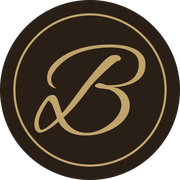
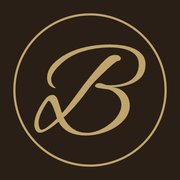
Add files via upload

diff --git a/about.html b/about.html
@@ -9,10 +9,10 @@
 <link rel="preconnect" href="https://fonts.gstatic.com" crossorigin>
 <link href="https://fonts.googleapis.com/css2?family=Cormorant+Garamond:ital,wght@0,400;0,500;0,600;0,700;1,400;1,500;1,600&family=Montserrat:wght@300;400;500;600&display=swap" rel="stylesheet">
 <link rel="stylesheet" href="site.css">
-<link rel="icon" href="favicon.ico" sizes="any">
-<link rel="icon" type="image/png" sizes="32x32" href="favicon-32.png">
-<link rel="icon" type="image/png" sizes="16x16" href="favicon-16.png">
-<link rel="apple-touch-icon" href="apple-touch-icon.png">
+<link rel="icon" href="favicon.ico?v=2" sizes="any">
+<link rel="icon" type="image/png" sizes="32x32" href="favicon-32.png?v=2">
+<link rel="icon" type="image/png" sizes="16x16" href="favicon-16.png?v=2">
+<link rel="apple-touch-icon" href="apple-touch-icon.png?v=2">
 <meta name="theme-color" content="#281F18">
 <link rel="canonical" href="https://www.blackwaterportraits.com/about.html">
 <meta property="og:type" content="website">
@@ -92,8 +92,10 @@
 <section class="alt reveal">
   <div class="wrap creds-band">
     <span class="eyebrow">Recognition &amp; Membership</span>
-    <p class="cred-copy">Proud members of the Professional Photographers of America, the Professional Photographers of Ohio, and the St. Clairsville Area Chamber of Commerce.</p>
-    <p class="cred-star">Donnie Stevens, 2026 PPA 30 Under 30 Honoree.</p>
+    <p class="cred-honor">2026 PPA 30 Under 30 <em>Honoree</em></p>
+    <p class="cred-honor-sub">Donnie Stevens &middot; Named by the Professional Photographers of America</p>
+    <div class="cred-rule"></div>
+    <p class="cred-mem">Proud members of the Professional Photographers of America, the Professional Photographers of Ohio, and the St. Clairsville Area Chamber of Commerce.</p>
     <div class="cred-logos">
       <img src="logo-ppa.png" alt="Professional Photographers of America member" loading="lazy">
       <img src="logo-ppo.png" alt="Professional Photographers of Ohio member" loading="lazy">

diff --git a/index.html b/index.html
@@ -9,10 +9,10 @@
 <link rel="preconnect" href="https://fonts.gstatic.com" crossorigin>
 <link href="https://fonts.googleapis.com/css2?family=Cormorant+Garamond:ital,wght@0,400;0,500;0,600;0,700;1,400;1,500;1,600&family=Montserrat:wght@300;400;500;600&display=swap" rel="stylesheet">
 <link rel="stylesheet" href="site.css">
-<link rel="icon" href="favicon.ico" sizes="any">
-<link rel="icon" type="image/png" sizes="32x32" href="favicon-32.png">
-<link rel="icon" type="image/png" sizes="16x16" href="favicon-16.png">
-<link rel="apple-touch-icon" href="apple-touch-icon.png">
+<link rel="icon" href="favicon.ico?v=2" sizes="any">
+<link rel="icon" type="image/png" sizes="32x32" href="favicon-32.png?v=2">
+<link rel="icon" type="image/png" sizes="16x16" href="favicon-16.png?v=2">
+<link rel="apple-touch-icon" href="apple-touch-icon.png?v=2">
 <meta name="theme-color" content="#281F18">
 <link rel="canonical" href="https://www.blackwaterportraits.com/">
 <meta property="og:type" content="website">
@@ -234,8 +234,10 @@
 <section class="alt reveal">
   <div class="wrap creds-band">
     <span class="eyebrow">Recognition &amp; Membership</span>
-    <p class="cred-copy">Proud members of the Professional Photographers of America, the Professional Photographers of Ohio, and the St. Clairsville Area Chamber of Commerce.</p>
-    <p class="cred-star">Donnie Stevens, 2026 PPA 30 Under 30 Honoree.</p>
+    <p class="cred-honor">2026 PPA 30 Under 30 <em>Honoree</em></p>
+    <p class="cred-honor-sub">Donnie Stevens &middot; Named by the Professional Photographers of America</p>
+    <div class="cred-rule"></div>
+    <p class="cred-mem">Proud members of the Professional Photographers of America, the Professional Photographers of Ohio, and the St. Clairsville Area Chamber of Commerce.</p>
     <div class="cred-logos">
       <img src="logo-ppa.png" alt="Professional Photographers of America member" loading="lazy">
       <img src="logo-ppo.png" alt="Professional Photographers of Ohio member" loading="lazy">

diff --git a/site.css b/site.css
@@ -307,6 +307,12 @@ footer{background:var(--cream);color:var(--mushroom);padding:104px 0 42px;border
 .cred-star{font-family:var(--sans);font-size:11px;letter-spacing:.24em;text-transform:uppercase;color:var(--gold-deep);font-weight:600;margin:22px auto 0;line-height:1.8;text-align:center}
 .cred-logos{display:flex;justify-content:center;align-items:center;flex-wrap:wrap;gap:40px 54px;margin:40px auto 0;max-width:840px}
 .cred-logos img{max-width:150px;max-height:62px;width:auto;height:auto;object-fit:contain;display:block}
+/* Featured honor — leads the recognition band */
+.cred-honor{font-family:var(--serif);font-weight:500;font-size:clamp(28px,3.8vw,44px);line-height:1.12;letter-spacing:-.01em;color:var(--espresso);max-width:20ch;margin:14px auto 0;text-align:center}
+.cred-honor em{font-style:italic;color:var(--gold-deep)}
+.cred-honor-sub{font-family:var(--sans);font-size:11px;letter-spacing:.22em;text-transform:uppercase;color:var(--mushroom);font-weight:500;margin:16px auto 0;line-height:1.7;text-align:center}
+.cred-rule{width:60px;height:1px;background:var(--gold);margin:30px auto}
+.cred-mem{font-family:var(--serif);font-style:italic;font-size:clamp(16px,1.9vw,20px);line-height:1.55;color:var(--mocha);max-width:46ch;margin:0 auto;text-align:center}
 @media(max-width:600px){.cred-logos{gap:26px 40px}.cred-logos img{max-width:118px;max-height:48px}}
 
 /* reveal */

diff --git a/wonder-of-christmas.html b/wonder-of-christmas.html
@@ -9,10 +9,10 @@
 <link rel="preconnect" href="https://fonts.gstatic.com" crossorigin>
 <link href="https://fonts.googleapis.com/css2?family=Cormorant+Garamond:ital,wght@0,400;0,500;0,600;0,700;1,400;1,500;1,600;1,700&family=Montserrat:wght@300;400;500;600&display=swap" rel="stylesheet">
 <link rel="stylesheet" href="site.css">
-<link rel="icon" href="favicon.ico" sizes="any">
-<link rel="icon" type="image/png" sizes="32x32" href="favicon-32.png">
-<link rel="icon" type="image/png" sizes="16x16" href="favicon-16.png">
-<link rel="apple-touch-icon" href="apple-touch-icon.png">
+<link rel="icon" href="favicon.ico?v=2" sizes="any">
+<link rel="icon" type="image/png" sizes="32x32" href="favicon-32.png?v=2">
+<link rel="icon" type="image/png" sizes="16x16" href="favicon-16.png?v=2">
+<link rel="apple-touch-icon" href="apple-touch-icon.png?v=2">
 <meta name="theme-color" content="#16271C">
 <link rel="canonical" href="https://www.blackwaterportraits.com/wonder-of-christmas.html">
 <meta property="og:type" content="website">

diff --git a/blackwater-grand-opening.html b/blackwater-grand-opening.html
@@ -9,10 +9,10 @@
 <link rel="preconnect" href="https://fonts.gstatic.com" crossorigin>
 <link href="https://fonts.googleapis.com/css2?family=Cormorant+Garamond:ital,wght@0,400;0,500;0,600;0,700;1,400;1,500;1,600&family=Montserrat:wght@300;400;500;600&display=swap" rel="stylesheet">
 <link rel="stylesheet" href="site.css">
-<link rel="icon" href="favicon.ico" sizes="any">
-<link rel="icon" type="image/png" sizes="32x32" href="favicon-32.png">
-<link rel="icon" type="image/png" sizes="16x16" href="favicon-16.png">
-<link rel="apple-touch-icon" href="apple-touch-icon.png">
+<link rel="icon" href="favicon.ico?v=2" sizes="any">
+<link rel="icon" type="image/png" sizes="32x32" href="favicon-32.png?v=2">
+<link rel="icon" type="image/png" sizes="16x16" href="favicon-16.png?v=2">
+<link rel="apple-touch-icon" href="apple-touch-icon.png?v=2">
 <meta name="theme-color" content="#281F18">
 <link rel="canonical" href="https://www.blackwaterportraits.com/blackwater-grand-opening.html">
 <meta property="og:type" content="article">

diff --git a/what-to-wear.html b/what-to-wear.html
@@ -9,10 +9,10 @@
 <link rel="preconnect" href="https://fonts.gstatic.com" crossorigin>
 <link href="https://fonts.googleapis.com/css2?family=Cormorant+Garamond:ital,wght@0,400;0,500;0,600;0,700;1,400;1,500;1,600&family=Montserrat:wght@300;400;500;600&display=swap" rel="stylesheet">
 <link rel="stylesheet" href="site.css">
-<link rel="icon" href="favicon.ico" sizes="any">
-<link rel="icon" type="image/png" sizes="32x32" href="favicon-32.png">
-<link rel="icon" type="image/png" sizes="16x16" href="favicon-16.png">
-<link rel="apple-touch-icon" href="apple-touch-icon.png">
+<link rel="icon" href="favicon.ico?v=2" sizes="any">
+<link rel="icon" type="image/png" sizes="32x32" href="favicon-32.png?v=2">
+<link rel="icon" type="image/png" sizes="16x16" href="favicon-16.png?v=2">
+<link rel="apple-touch-icon" href="apple-touch-icon.png?v=2">
 <meta name="theme-color" content="#281F18">
 <link rel="canonical" href="https://www.blackwaterportraits.com/what-to-wear.html">
 <meta property="og:type" content="website">

diff --git a/experience.html b/experience.html
@@ -9,10 +9,10 @@
 <link rel="preconnect" href="https://fonts.gstatic.com" crossorigin>
 <link href="https://fonts.googleapis.com/css2?family=Cormorant+Garamond:ital,wght@0,400;0,500;0,600;0,700;1,400;1,500;1,600&family=Montserrat:wght@300;400;500;600&display=swap" rel="stylesheet">
 <link rel="stylesheet" href="site.css">
-<link rel="icon" href="favicon.ico" sizes="any">
-<link rel="icon" type="image/png" sizes="32x32" href="favicon-32.png">
-<link rel="icon" type="image/png" sizes="16x16" href="favicon-16.png">
-<link rel="apple-touch-icon" href="apple-touch-icon.png">
+<link rel="icon" href="favicon.ico?v=2" sizes="any">
+<link rel="icon" type="image/png" sizes="32x32" href="favicon-32.png?v=2">
+<link rel="icon" type="image/png" sizes="16x16" href="favicon-16.png?v=2">
+<link rel="apple-touch-icon" href="apple-touch-icon.png?v=2">
 <meta name="theme-color" content="#281F18">
 <link rel="canonical" href="https://www.blackwaterportraits.com/experience.html">
 <meta property="og:type" content="website">

diff --git a/investment.html b/investment.html
@@ -9,10 +9,10 @@
 <link rel="preconnect" href="https://fonts.gstatic.com" crossorigin>
 <link href="https://fonts.googleapis.com/css2?family=Cormorant+Garamond:ital,wght@0,400;0,500;0,600;0,700;1,400;1,500;1,600&family=Montserrat:wght@300;400;500;600&display=swap" rel="stylesheet">
 <link rel="stylesheet" href="site.css">
-<link rel="icon" href="favicon.ico" sizes="any">
-<link rel="icon" type="image/png" sizes="32x32" href="favicon-32.png">
-<link rel="icon" type="image/png" sizes="16x16" href="favicon-16.png">
-<link rel="apple-touch-icon" href="apple-touch-icon.png">
+<link rel="icon" href="favicon.ico?v=2" sizes="any">
+<link rel="icon" type="image/png" sizes="32x32" href="favicon-32.png?v=2">
+<link rel="icon" type="image/png" sizes="16x16" href="favicon-16.png?v=2">
+<link rel="apple-touch-icon" href="apple-touch-icon.png?v=2">
 <meta name="theme-color" content="#281F18">
 <link rel="canonical" href="https://www.blackwaterportraits.com/investment.html">
 <meta property="og:type" content="website">

diff --git a/children.html b/children.html
@@ -9,10 +9,10 @@
 <link rel="preconnect" href="https://fonts.gstatic.com" crossorigin>
 <link href="https://fonts.googleapis.com/css2?family=Cormorant+Garamond:ital,wght@0,400;0,500;0,600;0,700;1,400;1,500;1,600&family=Montserrat:wght@300;400;500;600&display=swap" rel="stylesheet">
 <link rel="stylesheet" href="site.css">
-<link rel="icon" href="favicon.ico" sizes="any">
-<link rel="icon" type="image/png" sizes="32x32" href="favicon-32.png">
-<link rel="icon" type="image/png" sizes="16x16" href="favicon-16.png">
-<link rel="apple-touch-icon" href="apple-touch-icon.png">
+<link rel="icon" href="favicon.ico?v=2" sizes="any">
+<link rel="icon" type="image/png" sizes="32x32" href="favicon-32.png?v=2">
+<link rel="icon" type="image/png" sizes="16x16" href="favicon-16.png?v=2">
+<link rel="apple-touch-icon" href="apple-touch-icon.png?v=2">
 <meta name="theme-color" content="#281F18">
 <link rel="canonical" href="https://www.blackwaterportraits.com/children.html">
 <meta property="og:type" content="website">

diff --git a/animals.html b/animals.html
@@ -9,10 +9,10 @@
 <link rel="preconnect" href="https://fonts.gstatic.com" crossorigin>
 <link href="https://fonts.googleapis.com/css2?family=Cormorant+Garamond:ital,wght@0,400;0,500;0,600;0,700;1,400;1,500;1,600&family=Montserrat:wght@300;400;500;600&display=swap" rel="stylesheet">
 <link rel="stylesheet" href="site.css">
-<link rel="icon" href="favicon.ico" sizes="any">
-<link rel="icon" type="image/png" sizes="32x32" href="favicon-32.png">
-<link rel="icon" type="image/png" sizes="16x16" href="favicon-16.png">
-<link rel="apple-touch-icon" href="apple-touch-icon.png">
+<link rel="icon" href="favicon.ico?v=2" sizes="any">
+<link rel="icon" type="image/png" sizes="32x32" href="favicon-32.png?v=2">
+<link rel="icon" type="image/png" sizes="16x16" href="favicon-16.png?v=2">
+<link rel="apple-touch-icon" href="apple-touch-icon.png?v=2">
 <meta name="theme-color" content="#281F18">
 <link rel="canonical" href="https://www.blackwaterportraits.com/animals.html">
 <meta property="og:type" content="website">

diff --git a/contact.html b/contact.html
@@ -9,10 +9,10 @@
 <link rel="preconnect" href="https://fonts.gstatic.com" crossorigin>
 <link href="https://fonts.googleapis.com/css2?family=Cormorant+Garamond:ital,wght@0,400;0,500;0,600;0,700;1,400;1,500;1,600&family=Montserrat:wght@300;400;500;600&display=swap" rel="stylesheet">
 <link rel="stylesheet" href="site.css">
-<link rel="icon" href="favicon.ico" sizes="any">
-<link rel="icon" type="image/png" sizes="32x32" href="favicon-32.png">
-<link rel="icon" type="image/png" sizes="16x16" href="favicon-16.png">
-<link rel="apple-touch-icon" href="apple-touch-icon.png">
+<link rel="icon" href="favicon.ico?v=2" sizes="any">
+<link rel="icon" type="image/png" sizes="32x32" href="favicon-32.png?v=2">
+<link rel="icon" type="image/png" sizes="16x16" href="favicon-16.png?v=2">
+<link rel="apple-touch-icon" href="apple-touch-icon.png?v=2">
 <meta name="theme-color" content="#281F18">
 <link rel="canonical" href="https://www.blackwaterportraits.com/contact.html">
 <meta property="og:type" content="website">

diff --git a/seniors.html b/seniors.html
@@ -9,10 +9,10 @@
 <link rel="preconnect" href="https://fonts.gstatic.com" crossorigin>
 <link href="https://fonts.googleapis.com/css2?family=Cormorant+Garamond:ital,wght@0,400;0,500;0,600;0,700;1,400;1,500;1,600&family=Montserrat:wght@300;400;500;600&display=swap" rel="stylesheet">
 <link rel="stylesheet" href="site.css">
-<link rel="icon" href="favicon.ico" sizes="any">
-<link rel="icon" type="image/png" sizes="32x32" href="favicon-32.png">
-<link rel="icon" type="image/png" sizes="16x16" href="favicon-16.png">
-<link rel="apple-touch-icon" href="apple-touch-icon.png">
+<link rel="icon" href="favicon.ico?v=2" sizes="any">
+<link rel="icon" type="image/png" sizes="32x32" href="favicon-32.png?v=2">
+<link rel="icon" type="image/png" sizes="16x16" href="favicon-16.png?v=2">
+<link rel="apple-touch-icon" href="apple-touch-icon.png?v=2">
 <meta name="theme-color" content="#281F18">
 <link rel="canonical" href="https://www.blackwaterportraits.com/seniors.html">
 <meta property="og:type" content="website">
